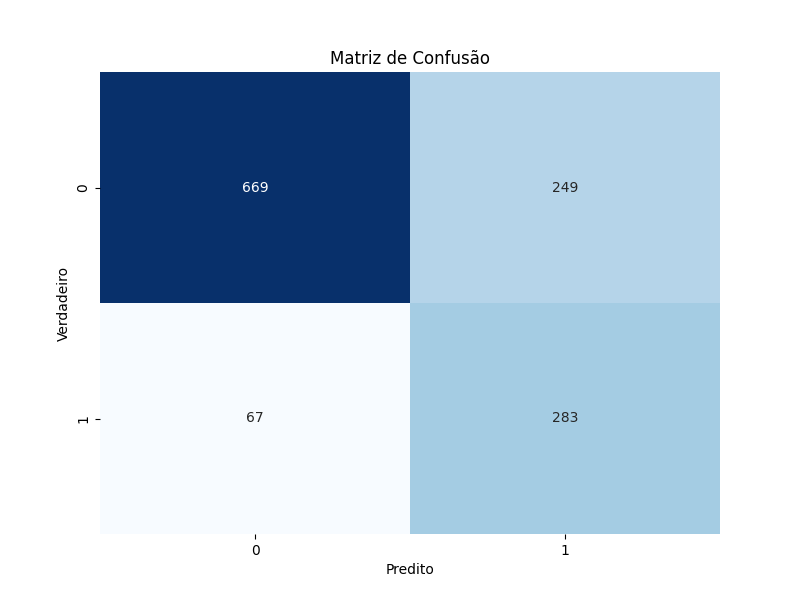
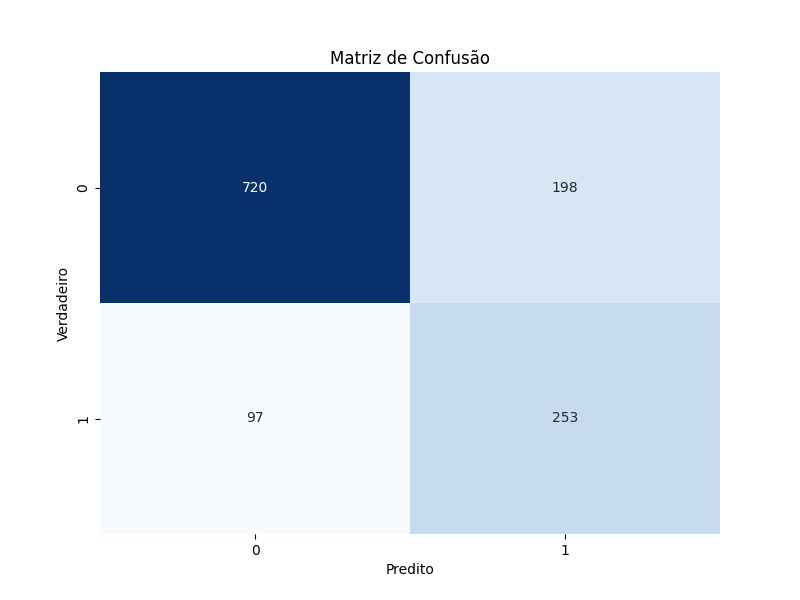
fix: exclude train evaluation

Changed region(s): [[0.5, 0.12, 0.9062, 0.9], [0.2812, 0.3, 0.3438, 0.33]]

diff --git a/src/train.py b/src/train.py
@@ -171,6 +171,12 @@ mlflow.set_experiment("Churn Prediction Experiment v10")
 
 n_iter = 50
 
+def find_optimal_threshold(y_true, y_pred_proba):
+    precision, recall, thresholds = precision_recall_curve(y_true, y_pred_proba)
+    f1_scores = 2 * (precision * recall) / (precision + recall)
+    optimal_threshold = thresholds[np.argmax(f1_scores)]
+    return optimal_threshold
+
 # Execute o Random Search e registre no MLflow
 def run_and_log_all_combinations(pipeline, param_grid, X_train, y_train, X_test, y_test, n_iter=n_iter):
     model_name = param_grid['classifier'][0].__class__.__name__
@@ -191,32 +197,18 @@ def run_and_log_all_combinations(pipeline, param_grid, X_train, y_train, X_test,
             pipeline.fit(X_train, y_train)
 
             # Avalie o modelo no conjunto de treino e teste
-            y_train_pred_proba = pipeline.predict_proba(X_train)[:, 1]
             y_test_pred_proba = pipeline.predict_proba(X_test)[:, 1]
             
-            y_train_pred = pipeline.predict(X_train)
-            y_test_pred = pipeline.predict(X_test)
+            optimal_threshold = find_optimal_threshold(y_test, y_test_pred_proba)
+            y_test_pred = (y_test_pred_proba >= optimal_threshold).astype(int)
 
             # Calcule as métricas
-            train_auc = roc_auc_score(y_train, y_train_pred_proba)
             test_auc = roc_auc_score(y_test, y_test_pred_proba)
-            
-            train_recall = recall_score(y_train, y_train_pred)
             test_recall = recall_score(y_test, y_test_pred)
-            
-            train_precision = precision_score(y_train, y_train_pred)
             test_precision = precision_score(y_test, y_test_pred)
-
-            train_f1 = f1_score(y_train, y_train_pred)
             test_f1 = f1_score(y_test, y_test_pred)
-
-            train_ks = calcular_ks_score(y_train, y_train_pred_proba)
             test_ks = calcular_ks_score(y_test, y_test_pred_proba)
-
-            train_auc_pr = calcular_auc_pr(y_train, y_train_pred_proba)
             test_auc_pr = calcular_auc_pr(y_test, y_test_pred_proba)
-            
-            train_accuracy = accuracy_score(y_train, y_train_pred)
             test_accuracy = accuracy_score(y_test, y_test_pred)
             
             cm = confusion_matrix(y_test, y_test_pred)
@@ -227,19 +219,12 @@ def run_and_log_all_combinations(pipeline, param_grid, X_train, y_train, X_test,
 
             # Log dos parâmetros e métricas no MLflow
             mlflow.log_params(params)
-            mlflow.log_metric("train_auc", train_auc)
             mlflow.log_metric("test_auc", test_auc)
-            mlflow.log_metric("train_recall", train_recall)
             mlflow.log_metric("test_recall", test_recall)
-            mlflow.log_metric("train_precision", train_precision)
             mlflow.log_metric("test_precision", test_precision)
-            mlflow.log_metric("train_f1", train_f1)
             mlflow.log_metric("test_f1", test_f1)
-            mlflow.log_metric("train_ks", train_ks)
             mlflow.log_metric("test_ks", test_ks)
-            mlflow.log_metric("train_auc_pr", train_auc_pr)
             mlflow.log_metric("test_auc_pr", test_auc_pr)
-            mlflow.log_metric("train_accuracy", train_accuracy)
             mlflow.log_metric("test_accuracy", test_accuracy)
             mlflow.log_metric("true_negatives", tn)
             mlflow.log_metric("false_positives", fp)
